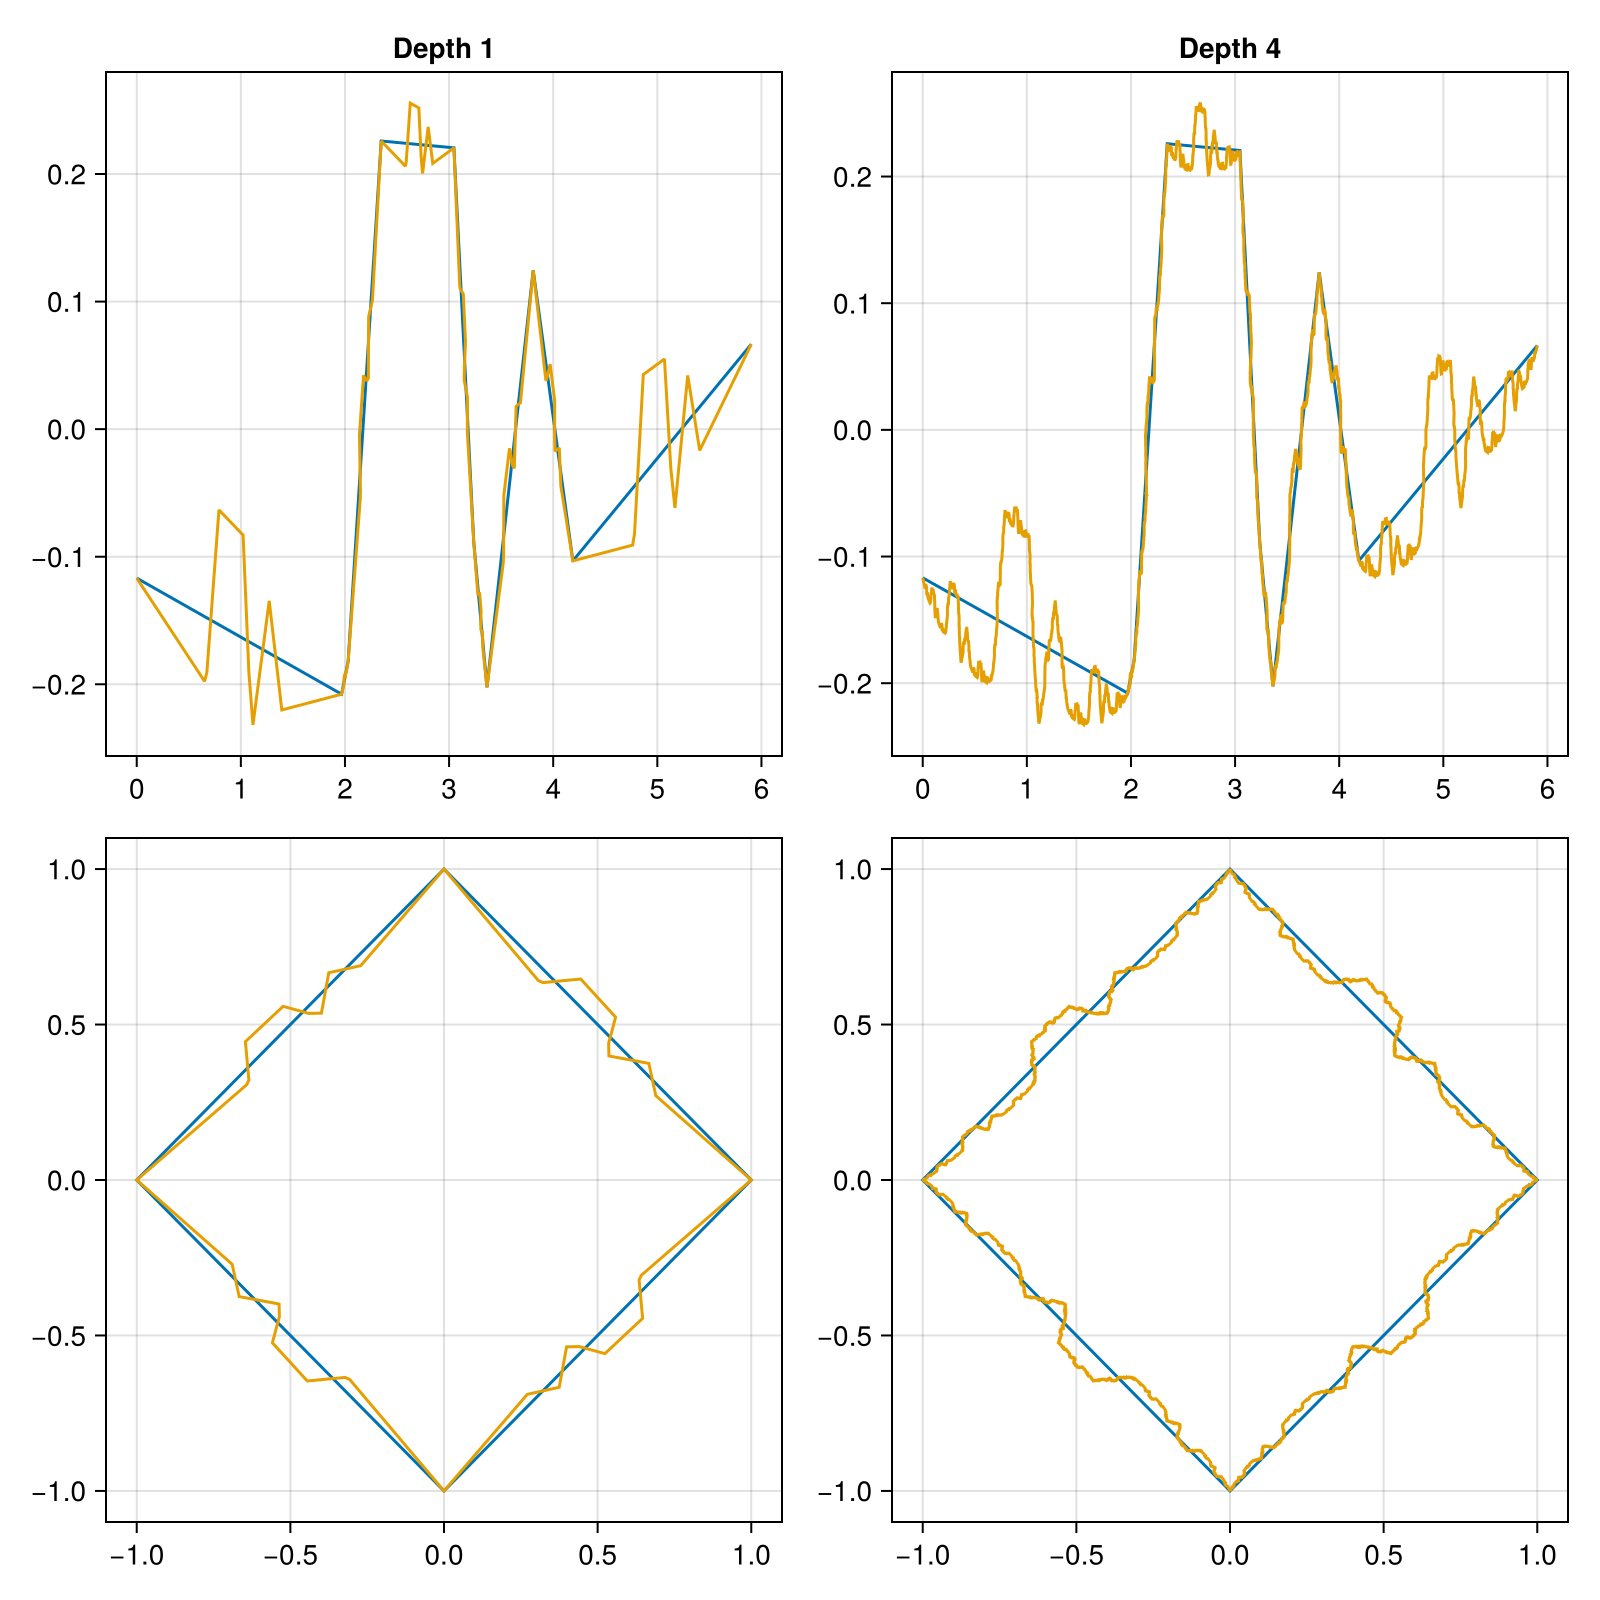
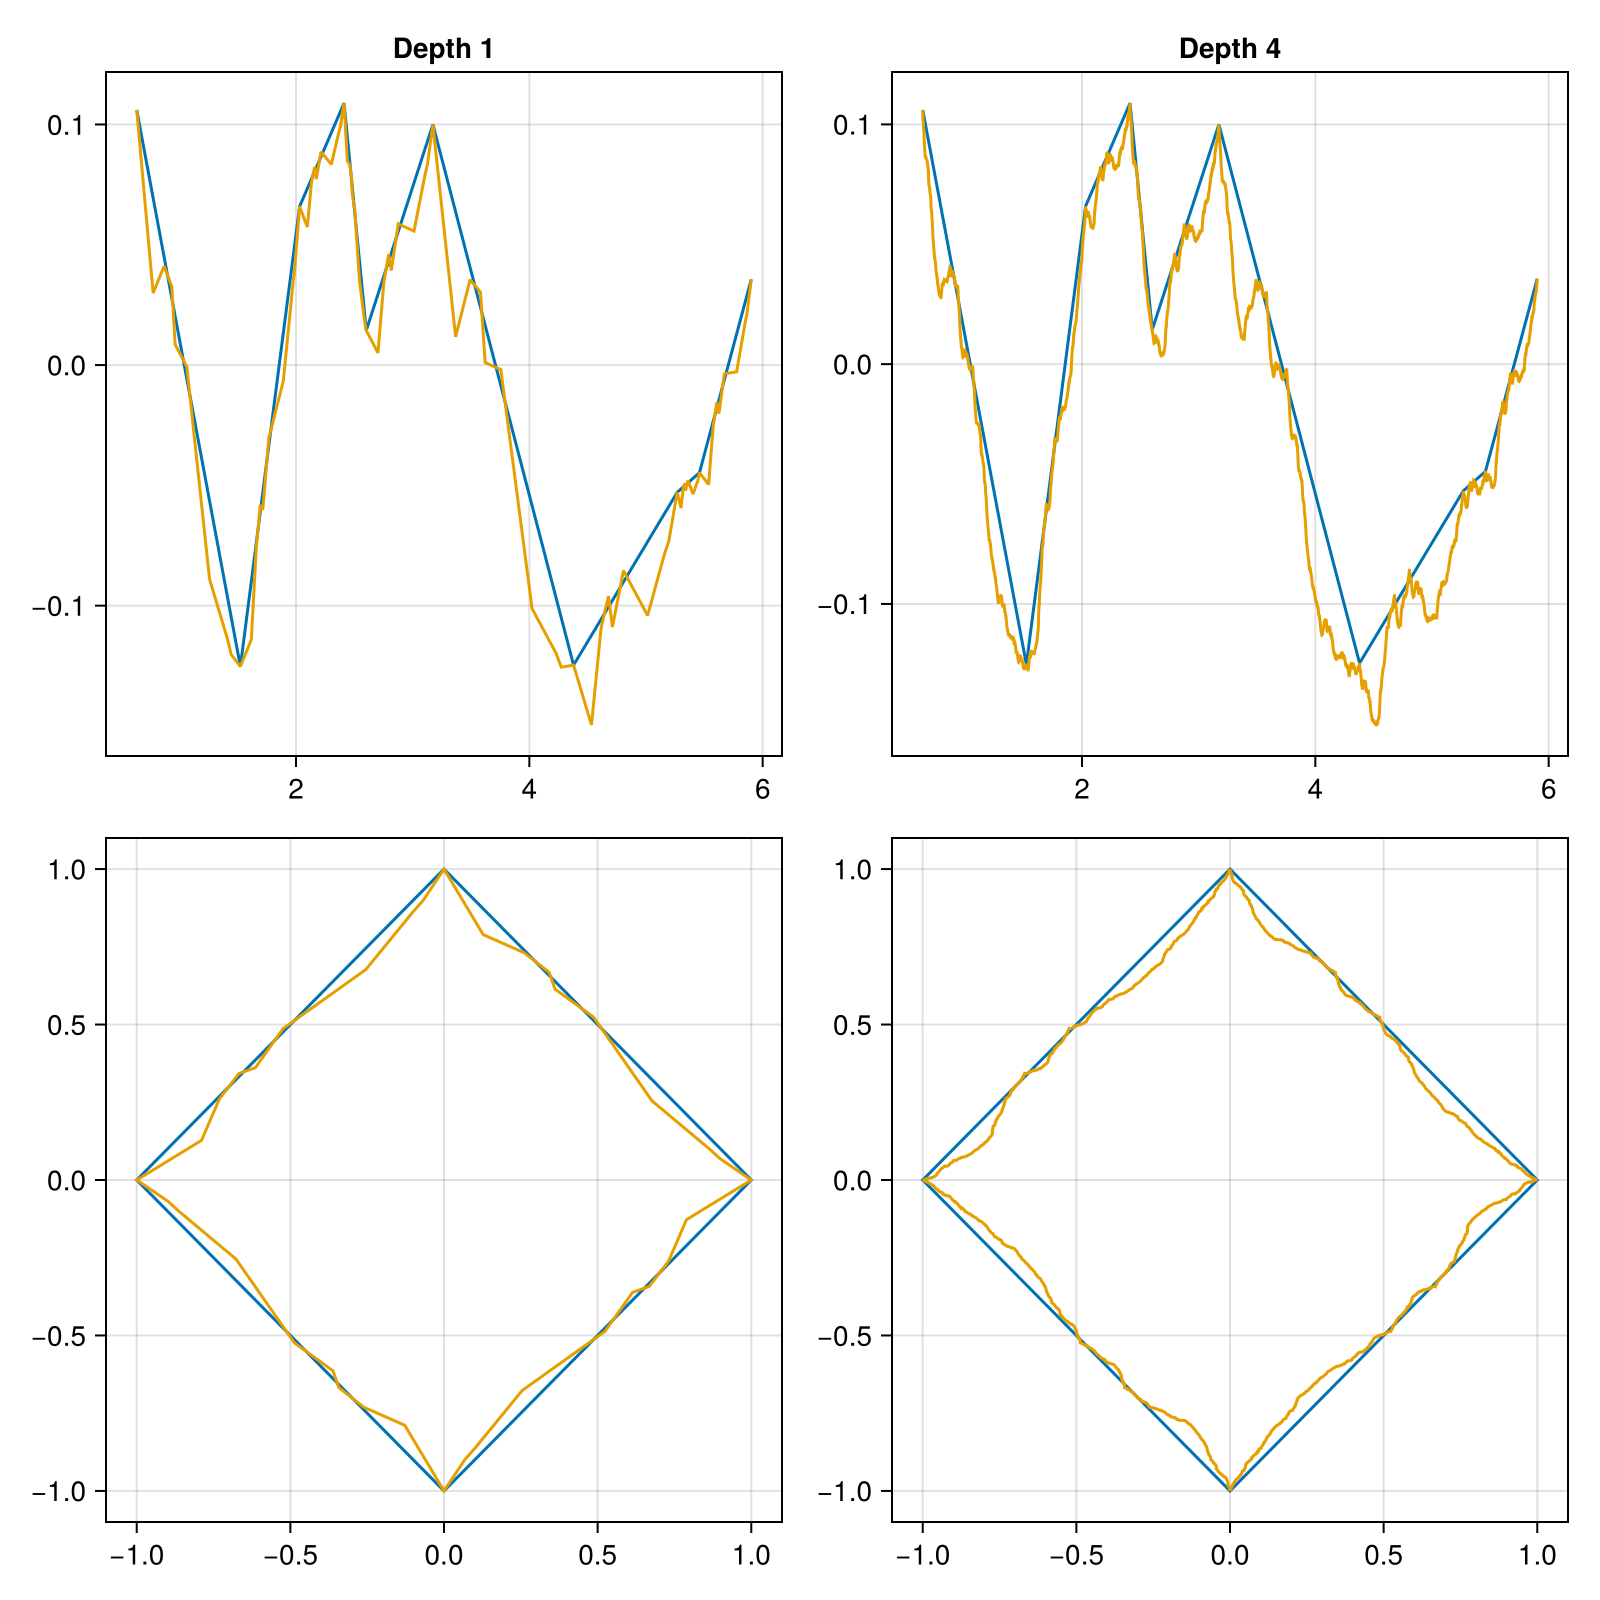
docs again

diff --git a/docs/versions.js b/docs/versions.js
@@ -1,0 +1,3 @@
+// This is here just to make the version selector show up when you build Documenter's
+// manual locally when developing / debugging.
+var DOC_VERSIONS = ["build"];
